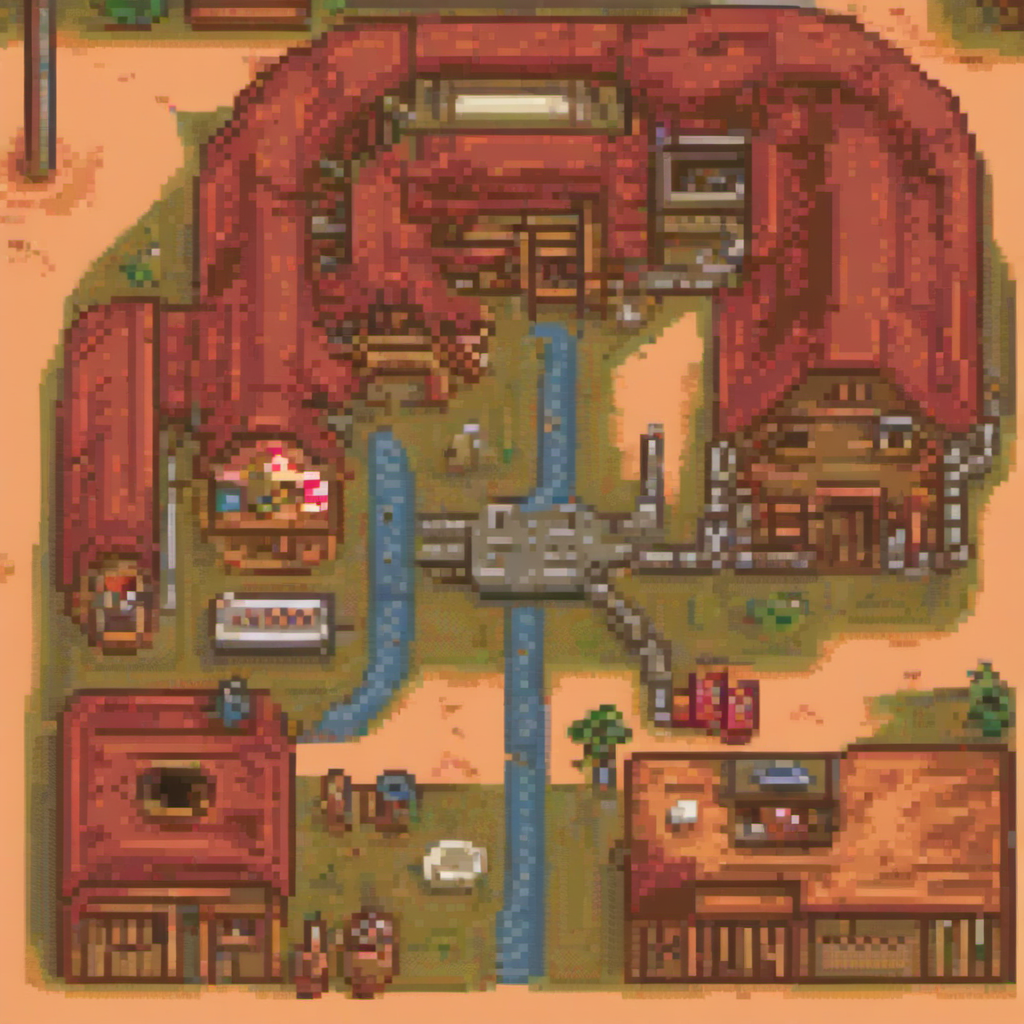
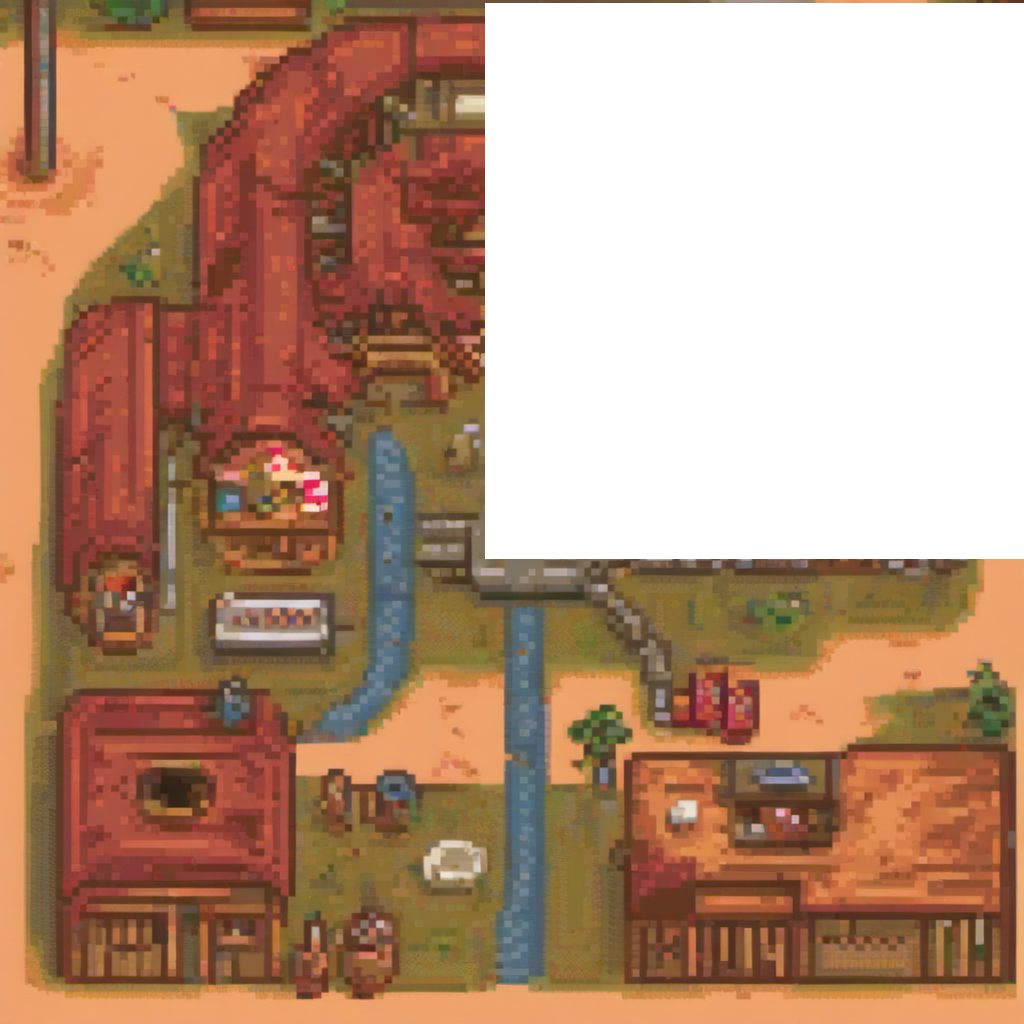
Fix image response

Changed region(s): [[0.4688, 0.0, 1.0, 0.5625]]

diff --git a/Server/inpaint_pixel.py b/Server/inpaint_pixel.py
@@ -1,0 +1,186 @@
+import os
+import random
+import sys
+from typing import Sequence, Mapping, Any, Union
+import torch
+
+
+def get_value_at_index(obj: Union[Sequence, Mapping], index: int) -> Any:
+    """Returns the value at the given index of a sequence or mapping.
+
+    If the object is a sequence (like list or string), returns the value at the given index.
+    If the object is a mapping (like a dictionary), returns the value at the index-th key.
+
+    Some return a dictionary, in these cases, we look for the "results" key
+
+    Args:
+        obj (Union[Sequence, Mapping]): The object to retrieve the value from.
+        index (int): The index of the value to retrieve.
+
+    Returns:
+        Any: The value at the given index.
+
+    Raises:
+        IndexError: If the index is out of bounds for the object and the object is not a mapping.
+    """
+    try:
+        return obj[index]
+    except KeyError:
+        return obj["result"][index]
+
+
+def find_path(name: str, path: str = None) -> str:
+    """
+    Recursively looks at parent folders starting from the given path until it finds the given name.
+    Returns the path as a Path object if found, or None otherwise.
+    """
+    # If no path is given, use the current working directory
+    if path is None:
+        path = os.getcwd()
+
+    # Check if the current directory contains the name
+    if name in os.listdir(path):
+        path_name = os.path.join(path, name)
+        print(f"{name} found: {path_name}")
+        return path_name
+
+    # Get the parent directory
+    parent_directory = os.path.dirname(path)
+
+    # If the parent directory is the same as the current directory, we've reached the root and stop the search
+    if parent_directory == path:
+        return None
+
+    # Recursively call the function with the parent directory
+    return find_path(name, parent_directory)
+
+
+def add_comfyui_directory_to_sys_path() -> None:
+    """
+    Add 'ComfyUI' to the sys.path
+    """
+    comfyui_path = find_path("ComfyUI")
+    if comfyui_path is not None and os.path.isdir(comfyui_path):
+        sys.path.append(comfyui_path)
+        print(f"'{comfyui_path}' added to sys.path")
+
+
+def add_extra_model_paths() -> None:
+    """
+    Parse the optional extra_model_paths.yaml file and add the parsed paths to the sys.path.
+    """
+    try:
+        from main import load_extra_path_config
+    except ImportError:
+        print(
+            "Could not import load_extra_path_config from main.py. Looking in utils.extra_config instead."
+        )
+        from ComfyUI.utils.extra_config import load_extra_path_config
+
+    extra_model_paths = find_path("extra_model_paths.yaml")
+
+    if extra_model_paths is not None:
+        load_extra_path_config(extra_model_paths)
+    else:
+        print("Could not find the extra_model_paths config file.")
+
+
+add_comfyui_directory_to_sys_path()
+add_extra_model_paths()
+
+
+def import_custom_nodes() -> None:
+    """Find all custom nodes in the custom_nodes folder and add those node objects to NODE_CLASS_MAPPINGS
+
+    This function sets up a new asyncio event loop, initializes the PromptServer,
+    creates a PromptQueue, and initializes the custom nodes.
+    """
+    import asyncio
+    import ComfyUI.execution
+    from ComfyUI.nodes import init_extra_nodes
+    import ComfyUI.server
+
+    # Creating a new event loop and setting it as the default loop
+    loop = asyncio.new_event_loop()
+    asyncio.set_event_loop(loop)
+
+    # Creating an instance of PromptServer with the loop
+    server_instance = ComfyUI.server.PromptServer(loop)
+    ComfyUI.execution.PromptQueue(server_instance)
+
+    # Initializing custom nodes
+    init_extra_nodes()
+
+
+from ComfyUI.nodes import NODE_CLASS_MAPPINGS
+
+
+def main():
+    import_custom_nodes()
+    with torch.inference_mode():
+        checkpointloadersimple = NODE_CLASS_MAPPINGS["CheckpointLoaderSimple"]()
+        checkpointloadersimple_4 = checkpointloadersimple.load_checkpoint(
+            ckpt_name="pixelXL_xl.safetensors"
+        )
+
+        loraloader = NODE_CLASS_MAPPINGS["LoraLoader"]()
+        loraloader_206 = loraloader.load_lora(
+            lora_name="pixel-art-xl-v1.1.safetensors",
+            strength_model=1,
+            strength_clip=1,
+            model=get_value_at_index(checkpointloadersimple_4, 0),
+            clip=get_value_at_index(checkpointloadersimple_4, 1),
+        )
+
+        cliptextencode = NODE_CLASS_MAPPINGS["CLIPTextEncode"]()
+        cliptextencode_165 = cliptextencode.encode(
+            text="A 2D game sprite, Pixel art, 64 bit, top-view, 2d game map, urban, dessert, town, open world",
+            clip=get_value_at_index(loraloader_206, 1),
+        )
+
+        cliptextencode_166 = cliptextencode.encode(
+            text="3D, walls, unrealistic, closed area, towered, limited, side view, watermark, signature, artist, inappropriate content, objects, game ui, ui, buttons, walled, grid, character, white edges, single portrait, edged, island, bottom ui, bottom blocks, player, creatures, life, uneven roads, unrealistic, human, living",
+            clip=get_value_at_index(loraloader_206, 1),
+        )
+
+        loadimage = NODE_CLASS_MAPPINGS["LoadImage"]()
+        loadimage_193 = loadimage.load_image(image="map_mask_half.png")
+
+        vaeencodeforinpaint = NODE_CLASS_MAPPINGS["VAEEncodeForInpaint"]()
+        vaeencodeforinpaint_213 = vaeencodeforinpaint.encode(
+            grow_mask_by=3,
+            pixels=get_value_at_index(loadimage_193, 0),
+            vae=get_value_at_index(checkpointloadersimple_4, 2),
+            mask=get_value_at_index(loadimage_193, 1),
+        )
+
+        ksampler = NODE_CLASS_MAPPINGS["KSampler"]()
+        vaedecode = NODE_CLASS_MAPPINGS["VAEDecode"]()
+        saveimage = NODE_CLASS_MAPPINGS["SaveImage"]()
+
+        for q in range(1):
+            ksampler_210 = ksampler.sample(
+                seed=random.randint(1, 2**64),
+                steps=20,
+                cfg=3,
+                sampler_name="ddim",
+                scheduler="karras",
+                denoise=1,
+                model=get_value_at_index(loraloader_206, 0),
+                positive=get_value_at_index(cliptextencode_165, 0),
+                negative=get_value_at_index(cliptextencode_166, 0),
+                latent_image=get_value_at_index(vaeencodeforinpaint_213, 0),
+            )
+
+            vaedecode_211 = vaedecode.decode(
+                samples=get_value_at_index(ksampler_210, 0),
+                vae=get_value_at_index(checkpointloadersimple_4, 2),
+            )
+
+            saveimage_212 = saveimage.save_images(
+                filename_prefix="ComfyUI", images=get_value_at_index(vaedecode_211, 0)
+            )
+
+
+if __name__ == "__main__":
+    main()

diff --git a/Server/main.py b/Server/main.py
@@ -1,5 +1,5 @@
 from contextlib import asynccontextmanager
-from fastapi.responses import StreamingResponse
+from fastapi.responses import JSONResponse, StreamingResponse
 import uvicorn
 from typing import Union
 import random
@@ -7,7 +7,7 @@ from PIL import Image
 import numpy as np
 from io import BytesIO
 
-from fastapi import FastAPI
+from fastapi import FastAPI, File, UploadFile
 import torch
 
 from image_gen import get_value_at_index, import_custom_nodes, NODE_CLASS_MAPPINGS
@@ -28,6 +28,7 @@ async def lifespan(app: FastAPI):
         checkpointloadersimple_1 = checkpointloadersimple.load_checkpoint(
             ckpt_name="pixelXL_xl.safetensors"
         )
+        loadimage = NODE_CLASS_MAPPINGS["LoadImage"]()
 
         emptylatentimage = NODE_CLASS_MAPPINGS["EmptyLatentImage"]()
         emptylatentimage_2 = emptylatentimage.generate(
@@ -47,14 +48,18 @@ async def lifespan(app: FastAPI):
 
         ksampler_efficient = NODE_CLASS_MAPPINGS["KSampler (Efficient)"]()
 
+        vaeencodeforinpaint = NODE_CLASS_MAPPINGS["VAEEncodeForInpaint"]()
+
         app.package = {
             "checkpoint": checkpointloadersimple_1,
             "clip_encode": cliptextencode,
             "empty_latent_image": emptylatentimage_2,
             "lora_loader": loraloader_6,
             "ksampler": ksampler_efficient,
+            "load_image": loadimage,
+            "vae_encode_for_inpaint": vaeencodeforinpaint,
         }
-        print(app.package)
+        # print(app.package)
 
     # Startup logic
     print("Application startup")
@@ -73,7 +78,7 @@ def read_root():
 
 @app.get("/gen")
 def gen(
-    pos_prompt: str = "",
+    pos_prompt: str = "A 2D game sprite, Pixel art, 64 bit, top-view, 2d game map, urban, dessert, town, open world",
     neg_prompt: str = "3D, walls, unrealistic, closed area, towered, limited, side view, watermark, signature, artist, inappropriate content, objects, game ui, ui, buttons, walled, grid, character, white edges, single portrait, edged, island, bottom ui, bottom blocks, player, creatures, life, uneven roads, unrealistic, human, living",
 ):
     with torch.inference_mode():
@@ -86,7 +91,7 @@ def gen(
         clip_encode = app.package["clip_encode"]
 
         positive_encode = clip_encode.encode(
-            text="A 2D game sprite, Pixel art, 64 bit, top-view, 2d game map, urban, dessert, town, open world",
+            text=pos_prompt,
             clip=get_value_at_index(loraloader, 1),
         )
 
@@ -94,8 +99,6 @@ def gen(
             text=neg_prompt,
             clip=get_value_at_index(loraloader, 1),
         )
-
-        print(positive_encode, negative_encode)
 
         ksampler_8 = ksampler.sample(
             seed=random.randint(1, 2**64),
@@ -118,11 +121,83 @@ def gen(
         final_image = get_value_at_index(vaedecode_9, 0)[0]
         final_image = 255.0 * final_image.cpu().numpy()
         final_image = Image.fromarray(np.clip(final_image, 0, 255).astype(np.uint8))
+
         img_bytes = BytesIO()
         final_image.save(img_bytes, format="PNG")
-        final_image.seek(0)
+        img_bytes.seek(0)
 
         return StreamingResponse(img_bytes, media_type="image/png")
+
+
+@app.post("/inpaint")
+async def inpaint(
+    image_file: UploadFile = File(...),
+    pos_prompt: str = "A 2D game sprite, Pixel art, 64 bit, top-view, 2d game map, urban, dessert, town, open world",
+    neg_prompt: str = "3D, walls, unrealistic, closed area, towered, limited, side view, watermark, signature, artist, inappropriate content, objects, game ui, ui, buttons, walled, grid, character, white edges, single portrait, edged, island, bottom ui, bottom blocks, player, creatures, life, uneven roads, unrealistic, human, living",
+):
+    # Read the image file
+    contents = await image_file.read()
+    if not image_file.content_type.startswith("image/"):
+        return JSONResponse(content={"error": "Invalid file type"}, status_code=400)
+
+    # Save the file as a temporary file
+    with open("temp.png", "wb") as f:
+        f.write(contents)
+
+    with torch.inference_mode():
+        checkpoint = app.package["checkpoint"]
+        loraloader = app.package["lora_loader"]
+        # ksampler = app.package["ksampler"]
+        ksampler = NODE_CLASS_MAPPINGS["KSampler"]()
+        vaedecode = NODE_CLASS_MAPPINGS["VAEDecode"]()
+        latent_image = app.package["empty_latent_image"]
+        clip_encode = app.package["clip_encode"]
+        load_image = app.package["load_image"]
+        vae_encode_for_inpaint = app.package["vae_encode_for_inpaint"]
+
+        loadimage_193 = load_image.load_image(image="temp.png")
+
+        vaeencodeforinpaint_213 = vae_encode_for_inpaint.encode(
+            grow_mask_by=3,
+            pixels=get_value_at_index(loadimage_193, 0),
+            vae=get_value_at_index(checkpoint, 2),
+            mask=get_value_at_index(loadimage_193, 1),
+        )
+
+        positive_encode = clip_encode.encode(
+            text=pos_prompt,
+            clip=get_value_at_index(loraloader, 1),
+        )
+
+        negative_encode = clip_encode.encode(
+            text=neg_prompt,
+            clip=get_value_at_index(loraloader, 1),
+        )
+
+        ksampler_8 = ksampler.sample(
+            seed=random.randint(1, 2**64),
+            steps=20,
+            cfg=3,
+            sampler_name="ddim",
+            scheduler="karras",
+            denoise=1,
+            model=get_value_at_index(loraloader, 0),
+            positive=get_value_at_index(positive_encode, 0),
+            negative=get_value_at_index(negative_encode, 0),
+            latent_image=get_value_at_index(vaeencodeforinpaint_213, 0),
+        )
+
+        vaedecode_9 = vaedecode.decode(
+            samples=get_value_at_index(ksampler_8, 0),
+            vae=get_value_at_index(checkpoint, 2),
+        )
+
+        final_image = get_value_at_index(vaedecode_9, 0)[0]
+        final_image = 255.0 * final_image.cpu().numpy()
+        final_image = Image.fromarray(np.clip(final_image, 0, 255).astype(np.uint8))
+        img_bytes = BytesIO()
+        final_image.save(img_bytes, format="PNG")
+        img_bytes.seek(0)
 
 
 def start_server():
